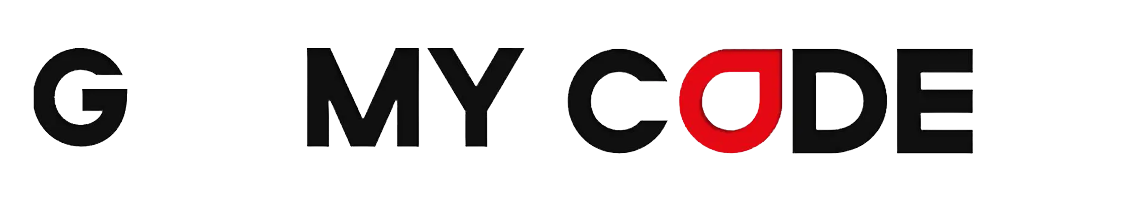
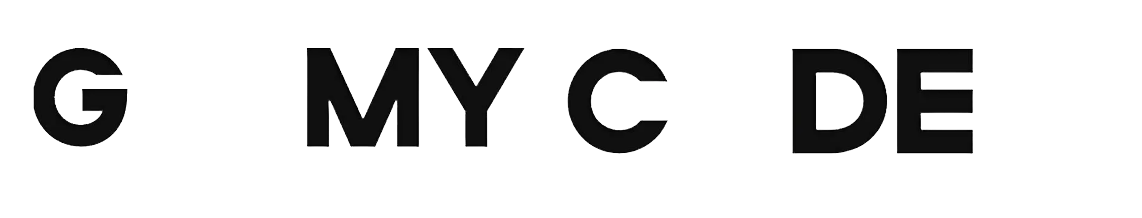
react1

Changed region(s): [[0.5823, 0.2202, 0.7049, 0.7156]]

diff --git a/src/Logo.css b/src/Logo.css
@@ -31,6 +31,16 @@ position: absolute;
 
 
 }
+#Logo4{
+    width: 6vw;
+    height: 6vw;
+    top:6.1vw;
+    left: 61.4vw;
+    position: absolute;
+    
+    
+    }
+    
 
 @media (prefers-reduced-motion: no-preference) {
     #Logo1 {
@@ -43,6 +53,10 @@ position: absolute;
       }
     #Logo3 {
         animation: logoinvmove infinite 4s linear;
+    
+    }
+    #Logo4 {
+        animation: logomove infinite 4s linear;
     
     }
   }
@@ -107,7 +121,7 @@ position: absolute;
 
 @media (prefers-reduced-motion: no-preference) {
     #Title{
-      animation: Move infinite 6s linear;
+      animation: Move infinite 4s linear;
       margin-left: -400PX;
   
     }
@@ -121,19 +135,19 @@ position: absolute;
     transform:         translateX(0)
   }
   25% {
-    -webkit-transform: translateX(13vw);
-    -ms-transform:     translateX(13vw);
-    transform:         translateX(13vw)
+    -webkit-transform: translateX(6vw);
+    -ms-transform:     translateX(6vw);
+    transform:         translateX(6vw);
   }
   50% {
-    -webkit-transform: translateX(26vw);
-    -ms-transform:     translateX(26vw);
-    transform:         translateX(26vw)
+    -webkit-transform: translateX(12vw);
+    -ms-transform:     translateX(12vw);
+    transform:         translateX(12vw)
   }
   75% {
-    -webkit-transform: translateX(13vw);
-    -ms-transform:     translateX(13vw);
-    transform:         translateX(13vw)
+    -webkit-transform: translateX(6vw);
+    -ms-transform:     translateX(6vw);
+    transform:         translateX(6vw);
   }
   100% {
     -webkit-transform: translateX(0);

diff --git a/src/Logo.js b/src/Logo.js
@@ -7,6 +7,7 @@ function Logo() {
         <img id="Logo1" src="./1.png" alt=""></img>
         <img id="Logo2" src="./2.png" alt=""></img>
         <img id="Logo3" src="./3.png" alt=""></img>
+        <img id="Logo4" src="./4.png" alt=""></img>
         <br></br>
         <br></br>
         <br></br>
